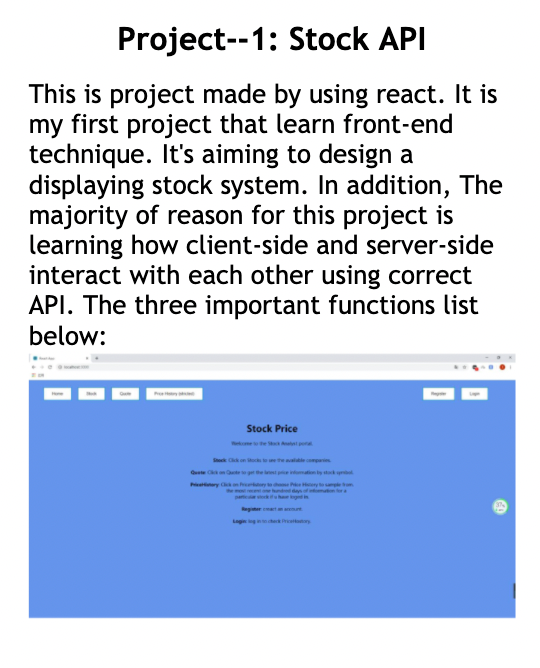
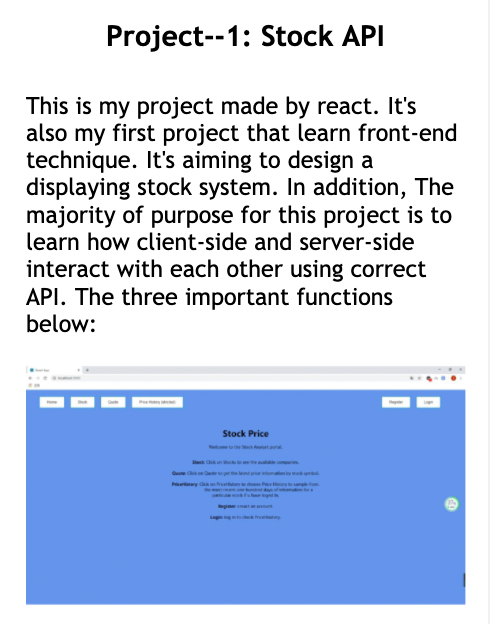
modify wrong word

Changed region(s): [[0.0306, 0.1218, 0.9796, 0.9744], [0.2143, 0.0304, 0.5204, 0.0913], [0.5204, 0.0304, 0.7959, 0.0913]]

diff --git a/Work.html b/Work.html
@@ -131,10 +131,10 @@
 
             <section>
               <p>
-                This is project made by using react. It is my first project that learn front-end technique.
+                This is my project made by react. It's also my first project that learn front-end technique.
                 It's aiming to design a displaying stock system. In addition, 
-                The majority of reason for this project is learning how client-side and server-side interact with each other using correct API.
-                The three important functions list below:
+                The majority of purpose for this project is to learn how client-side and server-side interact with each other using correct API.
+                The three important functions below:
               </p>
 
               <img src="img/stocks/stock-home.png" alt="the home page of my stock project">
@@ -283,9 +283,8 @@
             <p>
               This project is a group project. It is aiming to complete the programming tasks 
               and build this mobile application using react-native based on the prototype. 
-              After building this mobile application, 
-              users can easily access and use the discounts and 
-              it can also improve the relationship between employees and employers.
+              After finished this mobile app, 
+              users can easily access and use the discounts.
               The serveral main functionalities below:
             </p>
 

diff --git a/Style.css b/Style.css
@@ -250,7 +250,7 @@ footer .footer-contact-icons ul li{
 
 .overview-projects{
   width: 100%;
-  height: 1450px;
+  height: 1500px;
 
 }
 
@@ -272,7 +272,7 @@ footer .footer-contact-icons ul li{
 
 .overview-projects ul li h3{
   margin-right: 20px;
-  margin-top: -20px;
+
 }
 
 
